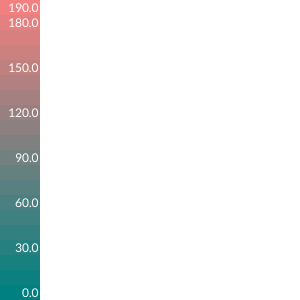
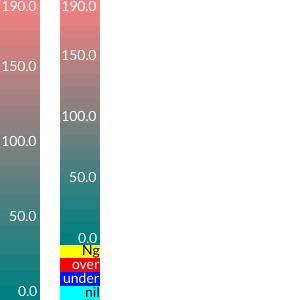
Fix: ColorScale renderer

diff --git a/matrix.go b/matrix.go
@@ -3,6 +3,7 @@ package lgimage
 import (
 	"fmt"
 	"image/color"
+	"math"
 
 	"github.com/fogleman/gg"
 	"golang.org/x/image/font"
@@ -29,37 +30,75 @@ func (m Matrix) Draw(dc *gg.Context, dfn DrawFunc) {
 
 // ColorScale is provide draw the color scale
 type ColorScale struct {
-	X, Y, W, H float64                     // Position
-	Vmin, Vmax float64                     // Value Scale
-	Cfn        func(v float64) color.Color // Color Function
-	Font       font.Face                   // value font
+	X, Y, W, H float64   // Position
+	Vmin, Vmax float64   // Value Scale
+	Cfn        ColorMap  // Color Function
+	Font       font.Face // value font
 }
 
 // Draw
 func (c ColorScale) DrawVertical(dc *gg.Context) {
-	s := 20
-	dy := c.H / float64(s)
-	zY := c.Y + c.H
-	dv := (c.Vmax - c.Vmin) / float64(s)
 
-	// 表示は上下と
+	// fontの高さを取得
 	dc.SetFontFace(c.Font)
-	// fontHeight := dc.FontHeight()
+	fontHeight := dc.FontHeight()
 
-	for i := 0; i < s; i++ {
-		v := c.Vmin + (dv * float64(i))
-		cc := c.Cfn(v)
-		dc.SetColor(cc)
+	// exception color list
+	// reserve rendering area by font size
+	list := c.Cfn.List()
+
+	excH := float64(len(list)) * fontHeight
+	numH := c.H - excH
+
+	dy := fontHeight
+	zY := c.Y + c.H // 書き込み富順高さを指定
+
+	// 下からexceptionを埋めていく
+	for i, v := range list {
 		y := zY - dy*float64(i+1)
+
+		// Color Rect
+		dc.SetColor(v.Color)
 		dc.DrawRectangle(c.X, y, c.W, dy)
-		// dc.DrawRectangle(20*float64(i), 20, 40, 40)
+		dc.Fill()
+
+		// Change text color
+		r, g, b, _ := v.Color.RGBA()
+		brightness := float64(((r*299)+(g*587)+(b*114))/1000) / 256.0
+
+		// Text
+		if brightness < 128 {
+			dc.SetColor(color.NRGBA{255, 255, 255, 255})
+		} else {
+			dc.SetColor(color.NRGBA{0, 0, 0, 255})
+		}
+		dc.DrawStringAnchored(v.String, c.X+c.W-1, y, 1, 0.8)
+		dc.Fill()
+	}
+
+	// 数値を埋める
+	splitLen := 20
+	zY = c.Y + numH // 書き込み富順高さを指定
+	dy = numH / float64(splitLen)
+	dv := (c.Vmax - c.Vmin) / float64(splitLen)
+	step := int(math.Ceil(fontHeight * 3 / dv))
+
+	for i := 0; i < splitLen; i++ {
+		v, _ := NewValue(c.Vmin + (dv * float64(i)))
+		cc := c.Cfn.Color(v)
+		y := math.Ceil(zY - dy*float64(i+1))
+
+		// Color Rect
+		dc.SetColor(cc)
+		dc.DrawRectangle(c.X, y, c.W, math.Ceil(dy))
 		dc.Fill()
 
 		// Text
-		if i == 0 || i == s-1 || i%3 == 0 {
+		if i == 0 || i == splitLen-1 || i%step == 0 {
 			dc.SetColor(color.NRGBA{255, 255, 255, 255})
-			dc.DrawStringAnchored(fmt.Sprintf("%.1f ", v), c.X+c.W, y, 1, 1)
+			dc.DrawStringAnchored(fmt.Sprintf("%.1f ", v.Value().(float64)), c.X+c.W-1, y, 1, 0.8)
 			dc.Fill()
 		}
 	}
+
 }

diff --git a/examples/image_test.go b/examples/image_test.go
@@ -64,6 +64,7 @@ func TestGGTextsize(t *testing.T) {
 	tbox := lgimage.TextBox{
 		FontFace: fLat16,
 		Text:     []string{"Code1", "nCode2", "code3"},
+		Color:    color.NRGBA{245, 23, 22, 220},
 	}
 	tbox.Draw(dc, 0, 0)
 
@@ -163,7 +164,7 @@ func TestGGWithBoxLayout(t *testing.T) {
 
 func TestGGColorScale(t *testing.T) {
 	dc := gg.NewContext(300, 300)
-	fLat16, _ := gg.LoadFontFace("../assets/Lato-Regular.ttf", 12)
+	fLat16, _ := gg.LoadFontFace("../assets/Lato-Regular.ttf", 14)
 	cs := lgimage.ColorScale{
 		X:    0,
 		Y:    0,
@@ -171,16 +172,44 @@ func TestGGColorScale(t *testing.T) {
 		H:    300,
 		Vmin: 0,
 		Vmax: 200,
-		Cfn: func(v float64) color.Color {
+		Cfn: lgimage.ColorMapFunc(func(x lgimage.Value) color.Color {
+			v := x.Value().(float64)
 			return color.NRGBA{uint8(v / 200 * 255), 128, 128, 255}
-		},
+		}),
 		Font: fLat16,
 	}
 
 	cs.DrawVertical(dc)
 
-	// dc.DrawRectangle(20, 20, 40, 40)
-	// dc.Fill()
+	{
+		cmap := make(map[string]color.Color)
+		cmap["under"] = color.NRGBA{0, 20, 255, 255}
+		cmap["over"] = color.NRGBA{255, 0, 0, 255}
+		cmap["Ng"] = color.NRGBA{255, 255, 0, 255}
+		cmap["nil"] = color.NRGBA{0, 255, 255, 255}
+
+		//
+		cfn := lgimage.ValueMapWithFunc{
+			Vmin: 0,
+			Vmax: 200,
+			ColorFunc: func(vi float64) color.Color {
+				return color.NRGBA{uint8(vi * 255), 128, 128, 255}
+			},
+			ExceptionList: cmap,
+		}
+		cs := lgimage.ColorScale{
+			X:    60,
+			Y:    0,
+			W:    40,
+			H:    300,
+			Vmin: 0,
+			Vmax: 200,
+			Cfn:  cfn,
+			Font: fLat16,
+		}
+
+		cs.DrawVertical(dc)
+	}
 
 	err := dc.SavePNG("colorscale.png")
 	assert.NoError(t, err)

diff --git a/colorfunc.go b/colorfunc.go
@@ -6,16 +6,29 @@ import (
 	"github.com/pkg/errors"
 )
 
+// ColorMapFunc is wrapper interface of ColorMap
+type ColorMapFunc func(v Value) color.Color
+
+func (c ColorMapFunc) Color(v Value) color.Color {
+	return c(v)
+}
+func (c ColorMapFunc) List() []ExceptionColor {
+	return []ExceptionColor{}
+}
+
+// ColorMap is encoder of to Color from Value
 type ColorMap interface {
 	Color(v Value) color.Color
 	List() []ExceptionColor
 }
 
+// ExceptionColor declare the exception value to map to color
 type ExceptionColor struct {
 	String string
 	Color  color.Color
 }
 
+// ValueMapWithFunc wrap the input value and to map to index[0->1]
 type ValueMapWithFunc struct {
 	Vmin, Vmax    float64
 	ColorFunc     func(d float64) color.Color // 0 -> 1
